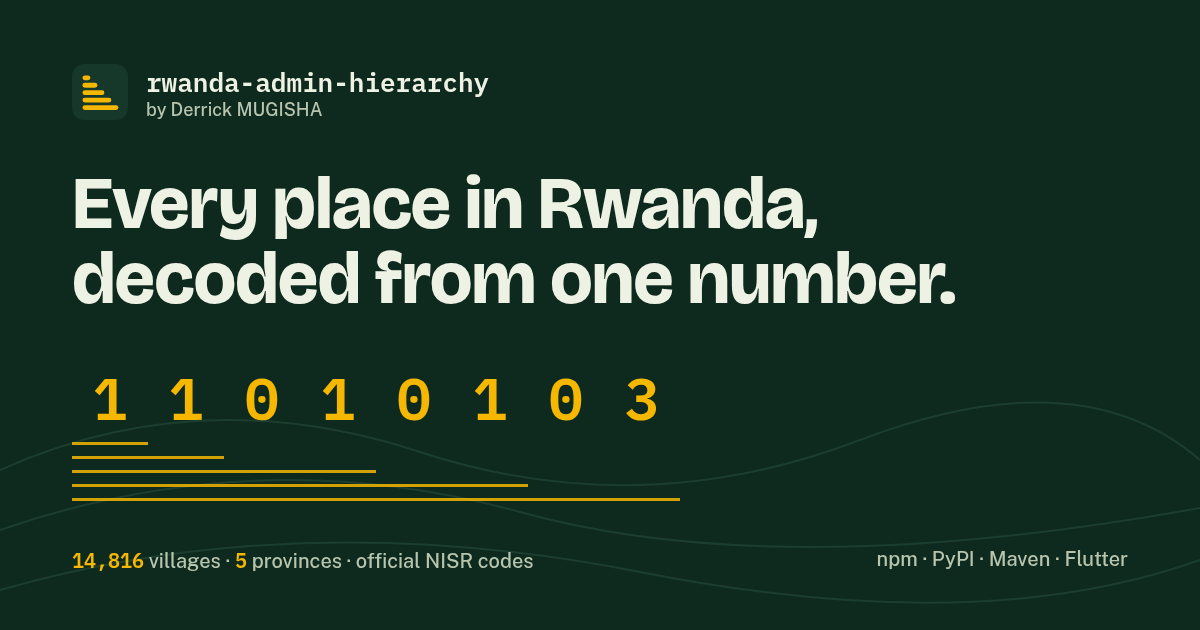
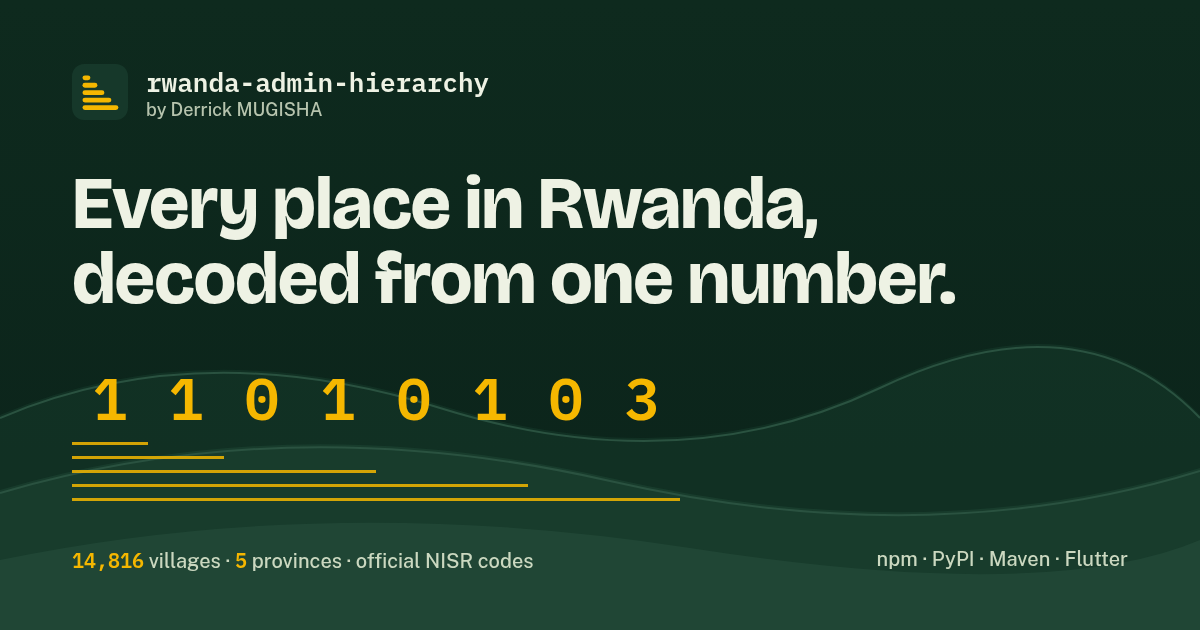
Add live registry stats strip and richer OG background
Four tiles under the dataset cascade fetch real numbers in the
visitor's browser: GitHub stars/commits/contributors, npm and PyPI
monthly downloads, and the latest release version for Maven (GitHub
Packages exposes no public download API). Failures degrade to a dash
with the registry link intact. The Open Graph card gains layered hill
silhouettes with a subtle gradient for depth.

diff --git a/website/src/components/RegistryStats.jsx b/website/src/components/RegistryStats.jsx
@@ -1,0 +1,116 @@
+import { useEffect, useState } from "react";
+
+const REPO = "Derrick-MUGISHA/Rwanda-Province-District-Sector-Cell-Village---in-Rwanda";
+const REPO_API = `https://api.github.com/repos/${REPO}`;
+
+/** Total item count from a paginated GitHub endpoint via the Link header. */
+async function countViaLinkHeader(url) {
+  const res = await fetch(url);
+  if (!res.ok) return null;
+  const match = /[?&]page=(\d+)>; rel="last"/.exec(res.headers.get("Link") ?? "");
+  if (match) return Number(match[1]);
+  const body = await res.json();
+  return Array.isArray(body) ? body.length : null;
+}
+
+function useRegistryStats() {
+  const [stats, setStats] = useState({});
+
+  useEffect(() => {
+    let alive = true;
+    const merge = (patch) => alive && setStats((prev) => ({ ...prev, ...patch }));
+
+    fetch(REPO_API)
+      .then((r) => (r.ok ? r.json() : null))
+      .then((repo) => repo && merge({ stars: repo.stargazers_count, forks: repo.forks_count }))
+      .catch(() => {});
+    countViaLinkHeader(`${REPO_API}/commits?per_page=1`)
+      .then((n) => n != null && merge({ commits: n }))
+      .catch(() => {});
+    countViaLinkHeader(`${REPO_API}/contributors?per_page=1&anon=1`)
+      .then((n) => n != null && merge({ contributors: n }))
+      .catch(() => {});
+    fetch("https://api.npmjs.org/downloads/point/last-month/@derrick63/rwanda-admin-hierarchy")
+      .then((r) => (r.ok ? r.json() : null))
+      .then((d) => d && merge({ npm: d.downloads }))
+      .catch(() => {});
+    fetch("https://pypistats.org/api/packages/rwanda-admin-hierarchy/recent")
+      .then((r) => (r.ok ? r.json() : null))
+      .then((d) => d?.data && merge({ pypi: d.data.last_month }))
+      .catch(() => {});
+    fetch(`${REPO_API}/releases/latest`)
+      .then((r) => (r.ok ? r.json() : null))
+      .then((rel) => rel?.tag_name && merge({ version: rel.tag_name }))
+      .catch(() => {});
+
+    return () => {
+      alive = false;
+    };
+  }, []);
+
+  return stats;
+}
+
+const fmt = (n) =>
+  n == null ? "—" : n >= 10000 ? Intl.NumberFormat("en", { notation: "compact" }).format(n) : n.toLocaleString("en-US");
+
+function Tile({ href, label, value, sub }) {
+  return (
+    <a
+      href={href}
+      className="block rounded-lg border border-hillline bg-hill/70 px-5 py-4 no-underline transition-colors hover:border-sun"
+    >
+      <p className="m-0 text-[0.72rem] font-bold uppercase tracking-wider text-mistdim">{label}</p>
+      <p className="m-0 mt-1 font-mono text-2xl font-semibold text-sun">{value}</p>
+      <p className="m-0 mt-0.5 text-[0.82rem] text-mistdim">{sub}</p>
+    </a>
+  );
+}
+
+/** Live numbers from GitHub, npm and PyPI, fetched in the visitor's browser.
+ * Maven has no public download API on GitHub Packages, so it shows the
+ * published version instead. */
+export default function RegistryStats() {
+  const stats = useRegistryStats();
+
+  const githubSub = [
+    stats.commits != null && `${fmt(stats.commits)} commits`,
+    stats.contributors != null && `${fmt(stats.contributors)} contributor${stats.contributors === 1 ? "" : "s"}`,
+  ]
+    .filter(Boolean)
+    .join(" · ");
+
+  return (
+    <section className="mx-auto max-w-272 px-6 pb-16" aria-label="Live registry statistics">
+      <div className="grid grid-cols-2 gap-3 md:grid-cols-4">
+        <Tile
+          href={`https://github.com/${REPO}`}
+          label="GitHub"
+          value={stats.stars == null ? "—" : `★ ${fmt(stats.stars)}`}
+          sub={githubSub || "stars · commits · contributors"}
+        />
+        <Tile
+          href="https://www.npmjs.com/package/@derrick63/rwanda-admin-hierarchy"
+          label="npm · JavaScript"
+          value={fmt(stats.npm)}
+          sub="downloads, last month"
+        />
+        <Tile
+          href="https://pypi.org/project/rwanda-admin-hierarchy/"
+          label="PyPI · Python"
+          value={fmt(stats.pypi)}
+          sub="downloads, last month"
+        />
+        <Tile
+          href={`https://github.com/${REPO}/packages`}
+          label="Maven · Java"
+          value={stats.version ?? "v1.2.0"}
+          sub="on GitHub Packages"
+        />
+      </div>
+      <p className="m-0 mt-2 text-[0.78rem] text-mistdim">
+        Fetched live from GitHub, npm and PyPI as you loaded this page.
+      </p>
+    </section>
+  );
+}

diff --git a/website/src/App.jsx b/website/src/App.jsx
@@ -8,6 +8,7 @@ import GetStarted from "./components/GetStarted.jsx";
 import Guides from "./components/Guides.jsx";
 import ApiReference from "./components/ApiReference.jsx";
 import Mark from "./components/Mark.jsx";
+import RegistryStats from "./components/RegistryStats.jsx";
 import { StackProvider } from "./stack-context.jsx";
 import { cn } from "./lib/utils.js";
 
@@ -209,6 +210,7 @@ export default function App() {
         <div className="hills-bg">
           <Hero />
           <Cascade counts={meta.counts} />
+          <RegistryStats />
         </div>
         <Demo />
         <GetStarted />
